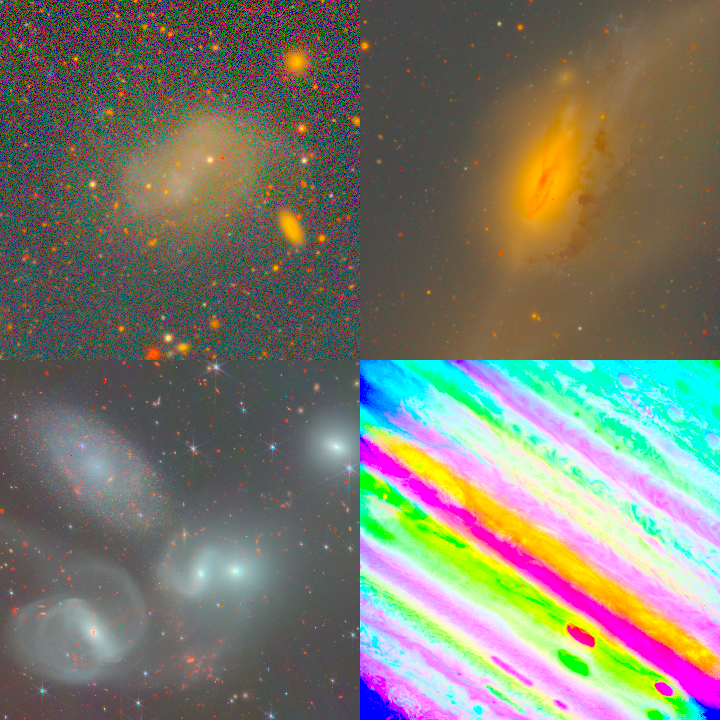
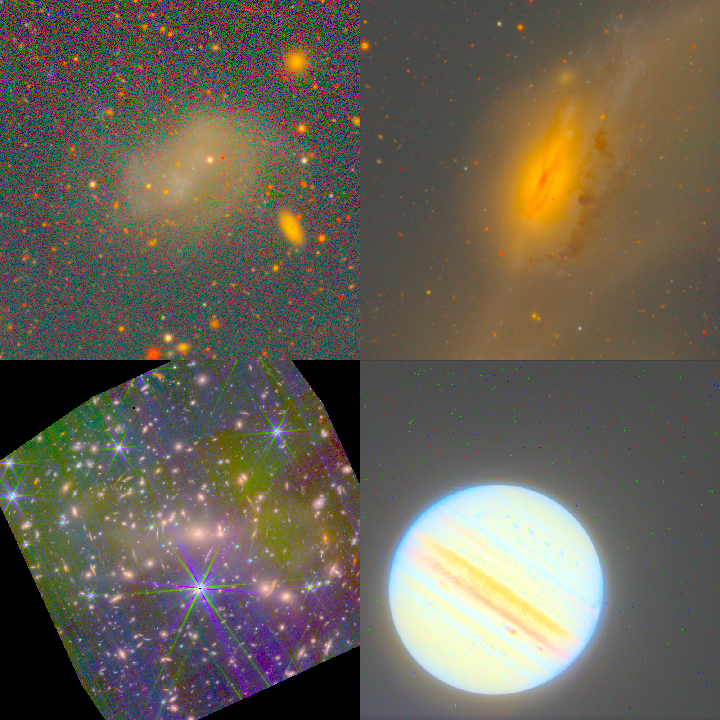
fix(transforms): keep NaN mosaic holes out of rgb() sky stats
The gallery used real FITS but still looked fake: HiPS NaNs were
zero-filled so empty footprints counted as sky, and the Jupiter stamp
was a neon interior crop. SMACS 0723 plus a full-disk downsample.

diff --git a/examples/example_rgb_sky.py b/examples/example_rgb_sky.py
@@ -1,11 +1,11 @@
-"""Auto RGB collage: Virgo dwarf, merger, JWST Quintet, HST Jupiter.
+"""Auto RGB collage: Virgo dwarf, merger, JWST SMACS 0723, HST Jupiter.
 
 Same ``rgb()`` defaults on every panel. Prefers cached public FITS from
 ``scripts/fetch_rgb_sky_samples.sh``:
 
 - Legacy Survey ``grz`` (nanomaggies → ``calibrated=True``)
-- CDS JWST HiPS F150W/F200W/F444W at Stephan's Quintet
-- HST WFC3 UVIS OPAL F395N/F502N/F631N Jupiter (SCI centroid crop)
+- CDS JWST HiPS F115W/F150W/F200W at SMACS 0723
+- HST WFC3 UVIS OPAL F395N/F502N/F631N Jupiter (full-frame SCI downsample)
 
 Missing files fall back to synthetic stamps so the example still runs
 under ``TORCHFITS_EXAMPLE_FAST=1``. Gallery PNGs are written only from
@@ -187,9 +187,9 @@ def main() -> int:
     dwarf_path = SKY_DIR / "ic3418_grz.fits"
     merger_path = SKY_DIR / "ngc4438_grz.fits"
     jwst_paths = (
-        SKY_DIR / "jwst_quintet_F150W.fits",
-        SKY_DIR / "jwst_quintet_F200W.fits",
-        SKY_DIR / "jwst_quintet_F444W.fits",
+        SKY_DIR / "jwst_smacs_F115W.fits",
+        SKY_DIR / "jwst_smacs_F150W.fits",
+        SKY_DIR / "jwst_smacs_F200W.fits",
     )
     jup_paths = (
         SKY_DIR / "jupiter_f395n.fits",
@@ -227,17 +227,17 @@ def main() -> int:
         merger = rgb(mg, mr, mz, calibrated=True)
 
     if jwst_bands is None:
-        print("jwst: synthetic (no Quintet F150W/F200W/F444W)")
+        print("jwst: synthetic (no SMACS F115W/F150W/F200W)")
         jwst = rgb(*_synthetic_jwst())
     else:
-        print("jwst: CDS HiPS Stephan's Quintet F150W/F200W/F444W")
+        print("jwst: CDS HiPS SMACS 0723 F115W/F150W/F200W")
         jwst = rgb(*jwst_bands)
 
     if jup_bands is None:
         print("jupiter: synthetic (no OPAL F395N/F502N/F631N)")
         jupiter = rgb(*_synthetic_jupiter())
     else:
-        print("jupiter: HST OPAL WFC3 F395N/F502N/F631N")
+        print("jupiter: HST OPAL WFC3 F395N/F502N/F631N (full disk)")
         jupiter = rgb(*jup_bands)
 
     collage = _collage([dwarf, merger, jwst, jupiter])

diff --git a/src/torchfits/transforms/rgb.py b/src/torchfits/transforms/rgb.py
@@ -301,7 +301,11 @@ def rgb(
         raise ValueError(f"scene must be 'auto', 'empty', or 'filled', got {scene!r}")
 
     stack = _as_band_stack(*bands)
-    stack = torch.nan_to_num(stack, nan=0.0, posinf=0.0, neginf=0.0)
+    # Keep NaN through stats / equalize so mosaic holes are not a fake sky
+    # floor (zero-fill made HiPS footprints look filled and washed-out).
+    stack = torch.where(
+        torch.isfinite(stack), stack, torch.full_like(stack, float("nan"))
+    )
     n_band = int(stack.shape[0])
     use_calibrated = bool(calibrated) or zeropoints is not None
     if zeropoints is not None:
@@ -344,6 +348,7 @@ def rgb(
         stretch = _stretch_for_target(max(i_ref, 1e-12), float(brightness), _RGB_Q)
 
     shifted = torch.clamp(mixed - black, min=0.0)
+    shifted = torch.nan_to_num(shifted, nan=0.0, posinf=0.0, neginf=0.0)
     mapped = lupton_rgb(
         shifted[..., 0],
         shifted[..., 1],

diff --git a/tests/test_rgb.py b/tests/test_rgb.py
@@ -132,6 +132,19 @@ def test_rgb_empty_nan_zero_size() -> None:
     assert z.shape == (8, 8, 3)
 
 
+def test_rgb_nan_mosaic_holes_stay_black() -> None:
+    """NaN mosaic holes must not zero-fill into a fake filled-scene stretch."""
+    g0, r0, i0 = _sky_scene()
+    g, r, i = g0.clone(), r0.clone(), i0.clone()
+    g[:6, :] = math.nan
+    r[:6, :] = math.nan
+    i[:6, :] = math.nan
+    out = rgb(g, r, i)
+    assert torch.isfinite(out).all()
+    assert float(out[:6].mean()) < 0.05
+    assert float(out[20:50, 20:50].max()) > 0.2
+
+
 def test_rgb_rejects_bad_knobs() -> None:
     g, r, i = _sky_scene(8, 8)
     with pytest.raises(ValueError, match="brightness"):

diff --git a/docs/examples.md b/docs/examples.md
@@ -191,7 +191,7 @@ torchfits.write("packed_int16.fits", image_float, quantize="robust", overwrite=T
 | [`example_megacam_cr_denoise.py`](published-examples/example_megacam_cr_denoise.py) | FITS-native Noise2Noise calibration, held-out dark test, and conservative science CR repair |
 | [`example_megapipe_cutout_collage.py`](published-examples/example_megapipe_cutout_collage.py) | Gigapixel mosaic cutout extraction and Lupton RGB collage |
 | [`example_lupton_rgb_sdss.py`](published-examples/example_lupton_rgb_sdss.py) | Lupton asinh RGB synthesis from SDSS $g, r, i$ filter frames |
-| [`example_rgb_sky.py`](published-examples/example_rgb_sky.py) | Auto RGB collage: Legacy Survey Virgo, JWST Stephan's Quintet, HST OPAL Jupiter |
+| [`example_rgb_sky.py`](published-examples/example_rgb_sky.py) | Auto RGB collage: Legacy Survey Virgo, JWST SMACS 0723, HST OPAL Jupiter |
 | [`example_transforms.py`](published-examples/example_transforms.py) | Composite stretch and normalization pipelines (`Compose`) |
 | [`example_time_series.py`](published-examples/example_time_series.py) | Light curve filtering with symmetric and asymmetric sigma clipping |
 | [`example_custom_transform.py`](published-examples/example_custom_transform.py) | Implementing custom `FITSTransform` subclasses |

diff --git a/docs/changelog.md b/docs/changelog.md
@@ -51,6 +51,7 @@ FITS RGB — plus a round of silent-corruption and security fixes.
   (shortest wavelength first): scarlet-style mix, per-band sky-median
   subtract + MAD equalize unless `calibrated=True` / `zeropoints=`,
   fitspng-style MAD stretch, coupled asinh, saturation, and sRGB.
+  NaN mosaic holes stay black (they are not treated as sky).
   `lupton_rgb` stays the Astropy-parity 3-band mapping (reddest first).
 - **`write(..., checksum=True)`** stamps CFITSIO `DATASUM`/`CHECKSUM`
   keywords on every HDU at write time (all payload types, compressed

diff --git a/docs/examples-transforms.md b/docs/examples-transforms.md
@@ -65,7 +65,7 @@ rgb_tensor = rgb(g, r, i)
 print(f"Generated RGB tensor with shape: {rgb_tensor.shape}")  # [H, W, 3]
 ```
 
-![Auto RGB on IC 3418, NGC 4438, JWST Stephan's Quintet, and HST OPAL Jupiter](assets/gallery/rgb_sky_collage.png)
+![Auto RGB on IC 3418, NGC 4438, JWST SMACS 0723, and HST OPAL Jupiter](assets/gallery/rgb_sky_collage.png)
 
 Same stretch, four skies: [`example_rgb_sky.py`](published-examples/example_rgb_sky.py).
 Why auto instead of library-default Lupton on a faint tail:
